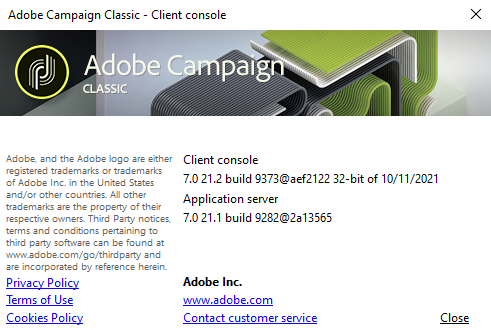
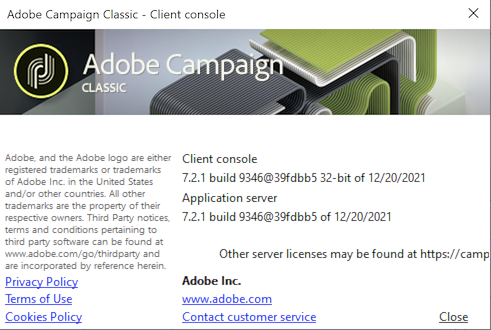
Update version

diff --git a/help/rn/using/latest-release.md b/help/rn/using/latest-release.md
@@ -13,7 +13,9 @@ exl-id: d65869ca-a785-4327-8e8d-791c28e4696c
 
 This page lists new capabilities, improvements and fixes coming with the **latest Campaign Classic v7 Release**. Every new build comes with a status which is materialized by a color. Learn more about Campaign Classic v7 build statuses in [this page](rn-overview.md). 
 
-## ![](assets/do-not-localize/blue_2.png) Release 7.2.1 - Build 9345 {#release-7-2-1-build-9345}
+## ![](assets/do-not-localize/blue_2.png) Release 7.2.1 - Build 9346 {#release-7-2-1}
+
+_January 10, 2022_
 
 **Security enhancement**
 
